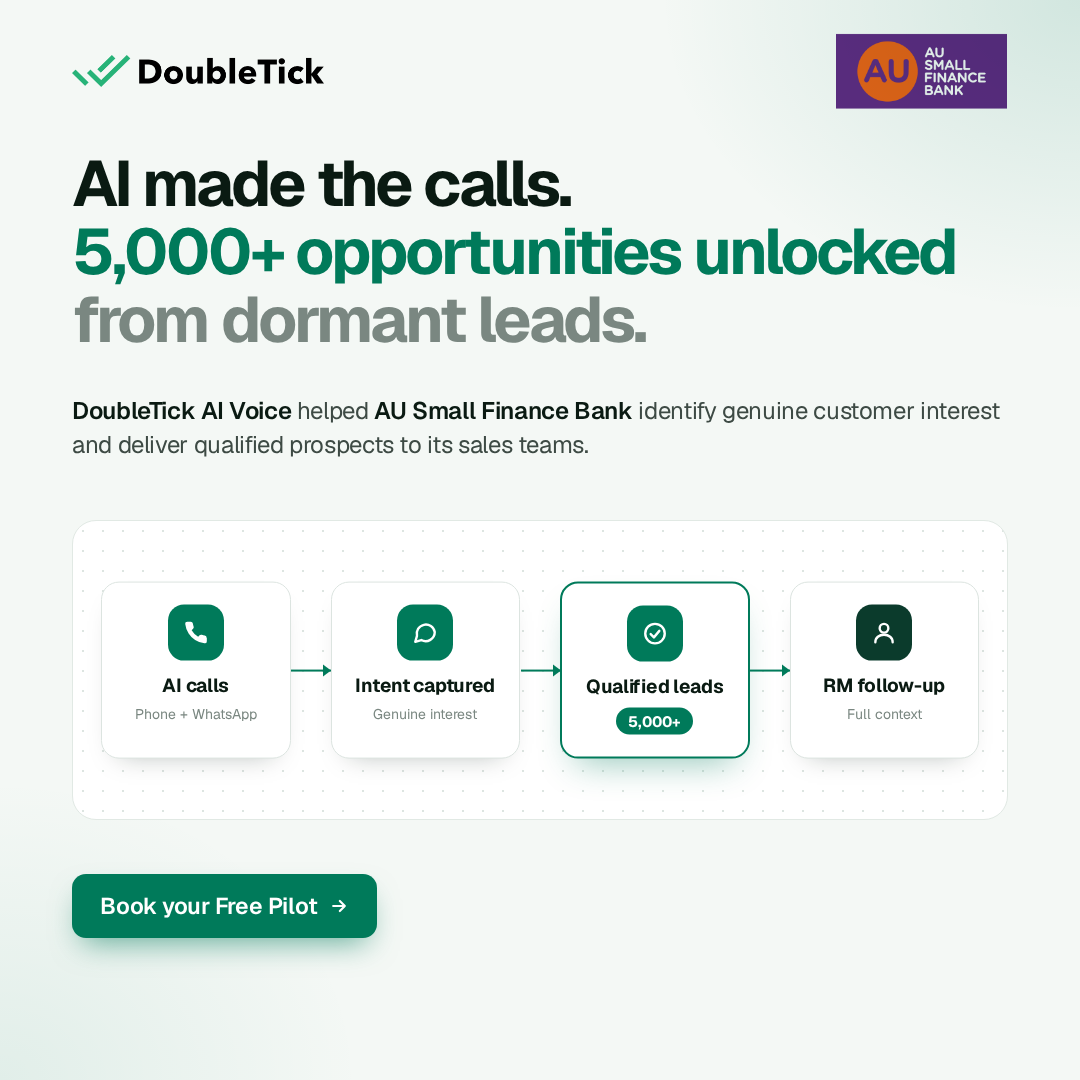
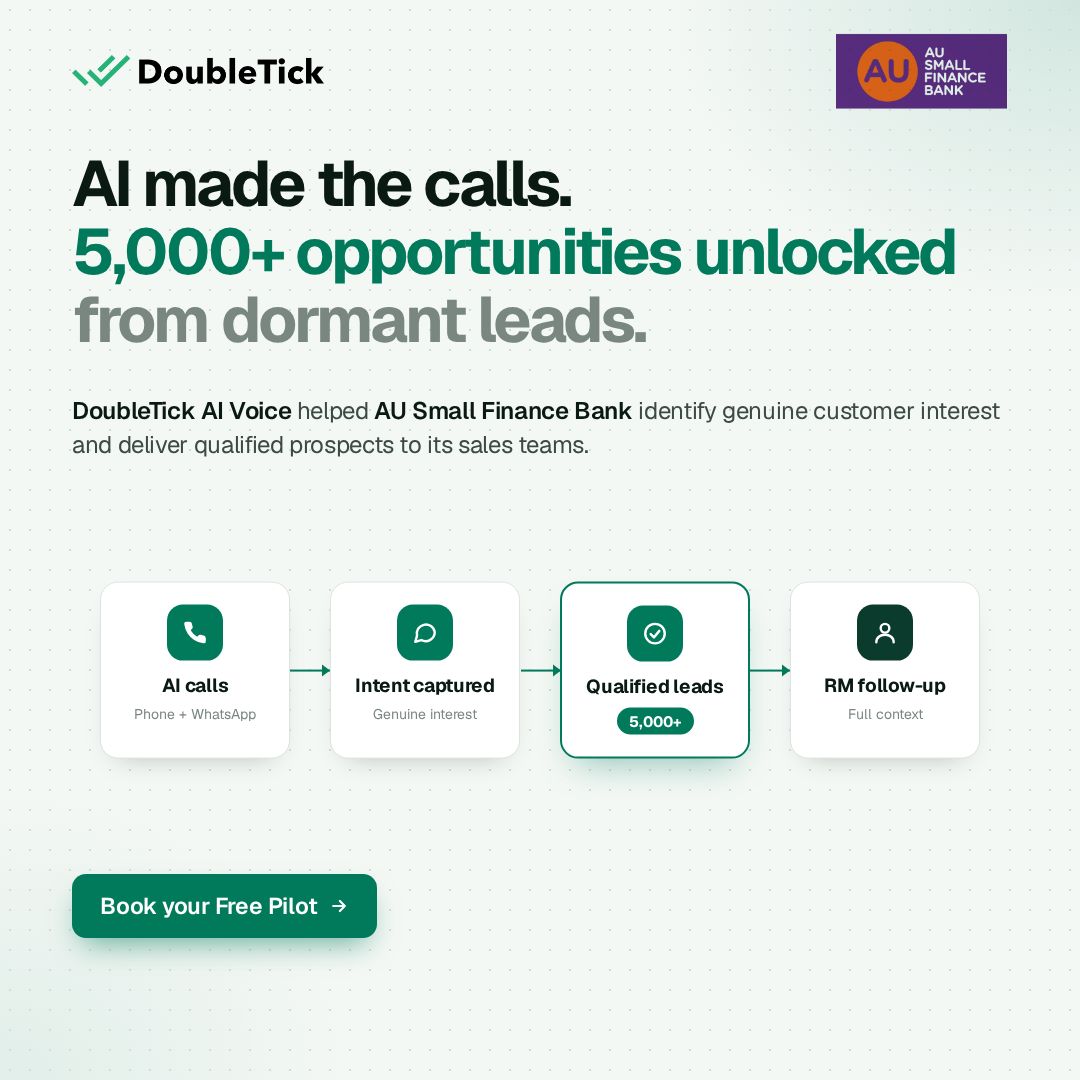
feat: dotted background across AU v8 ad
Claude-Session: https://claude.ai/code/session_013Hi5o4KgvuLbKTeGkStAKX

Changed region(s): [[0.7639, 0.5806, 0.8556, 0.6722], [0.1222, 0.6111, 0.2444, 0.6722], [0.5806, 0.6417, 0.6417, 0.6722]]

diff --git a/ads/doubletick-case-au-v8/index.html b/ads/doubletick-case-au-v8/index.html
@@ -9,6 +9,7 @@
   body { font-family: "Geist", system-ui, sans-serif; color: var(--ink); -webkit-font-smoothing: antialiased; overflow: hidden; }
   .ad { position: relative; width: 1080px; height: 1080px;
     background: radial-gradient(700px 520px at 100% 0%, rgba(0,122,90,.14), transparent 60%), radial-gradient(600px 500px at 0% 100%, rgba(0,122,90,.08), transparent 60%), var(--bg); }
+  .ad::before { content: ""; position: absolute; inset: 0; background-image: radial-gradient(#D3DDD8 1.3px, transparent 1.3px); background-size: 20px 20px; pointer-events: none; }
   .ad > * { position: absolute; }
   .top { left: 72px; right: 72px; top: 52px; display: flex; align-items: center; justify-content: space-between; }
   .logo { height: 32px; display: block; }
@@ -20,8 +21,8 @@
   .sub b { color: var(--ink); font-weight: 600; }
 
   /* visual: SaaS workflow canvas, decluttered */
-  .vis { left: 72px; top: 520px; width: 936px; height: 300px; border-radius: 24px; border: 1px solid var(--line); overflow: hidden;
-    background-color: #fff; background-image: radial-gradient(#DDE5E1 1.2px, transparent 1.2px); background-size: 20px 20px; }
+  .vis { left: 72px; top: 520px; width: 936px; height: 300px; overflow: visible;
+    background: transparent; }
   .nodes { position: absolute; left: 28px; right: 28px; top: 50%; transform: translateY(-50%); display: grid; grid-template-columns: repeat(4, 1fr); gap: 40px; }
   .node { background: #fff; border: 1px solid #DCE4E0; border-radius: 18px; padding: 22px 16px; display: flex; flex-direction: column; align-items: center; gap: 14px; text-align: center; position: relative;
     box-shadow: 0 12px 26px -18px rgba(10,26,18,.35); }
